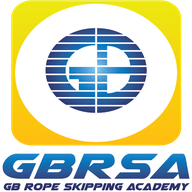
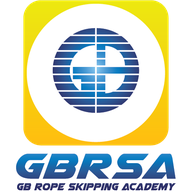
a

diff --git a/index.html b/index.html
@@ -4,7 +4,8 @@
   <meta charset="utf-8" />
   <meta name="viewport" content="width=device-width, initial-scale=1, maximum-scale=1, user-scalable=no, viewport-fit=cover" />
   <title>GBRSA Judging</title>
-  <meta name="theme-color" content="#0f2a67" />
+  <meta name="theme-color" content="#ffffff" />
+  <meta name="color-scheme" content="light">
   <meta name="apple-mobile-web-app-capable" content="yes">
   <meta name="apple-mobile-web-app-status-bar-style" content="default">
   <link rel="manifest" href="manifest.webmanifest">
@@ -15,6 +16,7 @@
 
   <style>
     :root{
+      color-scheme: light;
       --brand:#0f2a67;
       --brand-600:#153a8a;
       --bg:#f6f7fb;
@@ -36,16 +38,12 @@
       border:1px solid #eef1f6;
     }
     .brand{
-      display:flex; flex-direction:column; align-items:center; gap:14px; margin-bottom:18px;
+      display:flex; flex-direction:column; align-items:center; gap:16px; margin-bottom:18px;
     }
-    /* Logo container uses CSS background so it never crops */
-    .logo-box{
-      width:110px; height:110px; border-radius:26px; border:1px solid #e9eef6; background:#fff;
-      background-image:url('icons/icon-512.png');
-      background-repeat:no-repeat;
-      background-position:center;
-      background-size:90%;
-      box-shadow:0 1px 0 rgba(0,0,0,.02) inset;
+    /* Pure image, no frame; preserve original ratio */
+    .logo{
+      height:96px; width:auto; display:block; margin:0 auto;
+      max-width:90%;
     }
     .brand h1{ margin:0; font-size:28px; letter-spacing:.5px; text-align:center; font-weight:800; }
 
@@ -74,12 +72,13 @@
     /* Zoom lock helpers */
     html { -webkit-text-size-adjust: 100%; }
     html, body, a, button { touch-action: manipulation; }
-    input, select, textarea { font-size: 16px; }
+    input, select, textarea { font-size: 16px; } /* prevent iOS auto-zoom on focus */
 
     @media (min-width:700px){
       .card{ padding:54px 48px }
       .brand h1{ font-size:30px }
       .btn{ font-size:16px; padding:17px 24px }
+      .logo{ height:108px; }
     }
   </style>
 </head>
@@ -87,7 +86,7 @@
   <main class="wrap">
     <section class="card" aria-label="GBRSA Judging menu">
       <div class="brand">
-        <div class="logo-box" role="img" aria-label="GBRSA logo"></div>
+        <img class="logo" src="logo.png" alt="GBRSA logo">
         <h1>GBRSA JUDGING</h1>
       </div>
 
@@ -109,7 +108,6 @@
   </main>
 
   <script>
-    // Wire links from environment if provided
     (function(){
       var speed = (window.ENV_SPEED_URL || null);
       var free  = (window.ENV_FREESTYLE_URL || null);
@@ -119,7 +117,6 @@
   </script>
 
   <script>
-    // Lock zoom thoroughly
     (function(){
       function lockZoom(){
         var lastTouch = 0;
@@ -147,7 +144,6 @@
       }
       if(document.readyState === 'loading'){ document.addEventListener('DOMContentLoaded', lockZoom); } else { lockZoom(); }
 
-      // Register service worker for PWA installability
       if('serviceWorker' in navigator){ navigator.serviceWorker.register('./sw.js'); }
     })();
   </script>

diff --git a/sw.js b/sw.js
@@ -1,9 +1,10 @@
 
-const CACHE = "gbrsa-pwa-v1";
+const CACHE = "gbrsa-pwa-v2";
 const ASSETS = [
   "./",
   "./index.html",
   "./manifest.webmanifest",
+  "./logo.png",
   "./icons/icon-192.png",
   "./icons/icon-512.png",
   "./icons/apple-touch-icon.png",
@@ -20,8 +21,7 @@ self.addEventListener("activate", (e) => {
 });
 self.addEventListener("fetch", (e) => {
   const url = new URL(e.request.url);
-  // Offline-first for our assets
-  if (ASSETS.includes(url.pathname) || url.origin === location.origin) {
+  if (url.origin === location.origin) {
     e.respondWith(
       caches.match(e.request).then(r => r || fetch(e.request).then(resp => {
         const copy = resp.clone();
